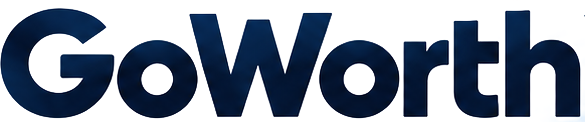
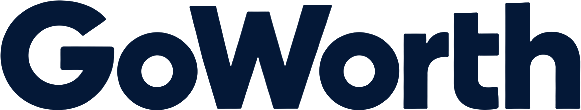
Clean the GoWorth wordmark; locate the device's country on the Map globe
The splash wordmark loses the white haze beside the "h" and its light letter rims.
The globe turns to the country the device is in when location is on, marks it,
and gets a button that centres on it, sharing one lookup with the Explore comb.

diff --git a/goworth/src/components/goworth/country-globe.tsx b/goworth/src/components/goworth/country-globe.tsx
@@ -15,6 +15,7 @@ import { usePalette, useStyles } from "@/state/theme-context";
 import { Icon } from "@/components/goworth/ui";
 import { GlobeSurface } from "@/components/goworth/globe-surface";
 import { projectPoint as project } from "@/components/goworth/globe-math";
+import { deviceCountry } from "@/utils/device-location";
 
 const HEIGHT = 390;
 const BUBBLE = 42;
@@ -42,13 +43,14 @@ function revealFor(zoom: number, minZoom: number) {
 
 const HIDDEN = { opacity: 0, transform: [{ translateX: 0 }, { translateY: 0 }, { scale: 0 }] };
 
-const GlobeBubble = memo(function GlobeBubble({ country, latitude, longitude, index, minZoom, lam, phi, zoom, pressed, radius, cx, cy, dimmed, emphasized, language, onSelect }: {
+const GlobeBubble = memo(function GlobeBubble({ country, latitude, longitude, index, minZoom, lam, phi, zoom, pressed, radius, cx, cy, dimmed, emphasized, here, language, onSelect }: {
   country: Country; latitude: number; longitude: number; index: number; minZoom: number;
   lam: SharedValue<number>; phi: SharedValue<number>; zoom: SharedValue<number>; pressed: SharedValue<number>;
-  radius: number; cx: number; cy: number; dimmed: boolean; emphasized: boolean;
+  radius: number; cx: number; cy: number; dimmed: boolean; emphasized: boolean; here: boolean;
   language: ReturnType<typeof useAppLanguage>; onSelect: (code: string) => void;
 }) {
   const styles = useStyles(stylesSheet);
+  const p = usePalette();
   const style = useAnimatedStyle(() => {
     const view = project(longitude, latitude, lam.value, phi.value, radius * zoom.value);
     const reveal = revealFor(zoom.value, minZoom);
@@ -61,19 +63,20 @@ const GlobeBubble = memo(function GlobeBubble({ country, latitude, longitude, in
     };
   });
   const labelStyle = useAnimatedStyle(() => ({
-    opacity: emphasized ? 1 : dimmed ? 0 : interpolate(zoom.value, [minZoom + 1.3, minZoom + 1.9], [0, 1], Extrapolation.CLAMP),
+    opacity: emphasized || here ? 1 : dimmed ? 0 : interpolate(zoom.value, [minZoom + 1.3, minZoom + 1.9], [0, 1], Extrapolation.CLAMP),
   }));
   const name = translate(country.name, language);
   return <Animated.View
     accessible
     accessibilityRole="button"
-    accessibilityLabel={language === "ro" ? `Explorează ${name}` : `Explore ${name}`}
+    accessibilityLabel={language === "ro" ? `Explorează ${name}${here ? ", ești aici" : ""}` : `Explore ${name}${here ? ", you are here" : ""}`}
     accessibilityActions={[{ name: "activate" }]}
     onAccessibilityAction={() => onSelect(country.code)}
     pointerEvents="none"
-    style={[styles.bubbleSlot, { left: cx - BUBBLE / 2, top: cy - BUBBLE / 2, zIndex: emphasized ? 2 : 1 }, style]}
+    style={[styles.bubbleSlot, { left: cx - BUBBLE / 2, top: cy - BUBBLE / 2, zIndex: here ? 3 : emphasized ? 2 : 1 }, style]}
   >
-    <View style={[styles.bubble, emphasized && styles.bubbleEmphasized]}><Text style={styles.flag}>{countryFlag(country.code)}</Text></View>
+    <View style={[styles.bubble, emphasized && styles.bubbleEmphasized, here && styles.bubbleHere]}><Text style={styles.flag}>{countryFlag(country.code)}</Text></View>
+    {here && <View style={styles.hereBadge}><Icon name="pin" size={9} color={p.white} /></View>}
     <Animated.View style={[styles.label, labelStyle]}><Text numberOfLines={1} style={styles.labelText}>{name}</Text></Animated.View>
   </Animated.View>;
 });
@@ -95,6 +98,7 @@ export const CountryGlobe = memo(function CountryGlobe({ countries, highlighted,
   useEffect(() => { selectRef.current = onSelect; }, [onSelect]);
   const select = useCallback((code: string) => selectRef.current(code), []);
   const [width, setWidth] = useState(0);
+  const [hereCode, setHereCode] = useState<string | null>(null);
   const anchored = useMemo(() => countries.flatMap((country) => {
     const anchor = countryAnchor(country);
     return anchor ? [{ country, ...anchor }] : [];
@@ -105,8 +109,9 @@ export const CountryGlobe = memo(function CountryGlobe({ countries, highlighted,
   const highlightSet = useMemo(() => highlighted ? new Set(highlighted) : null, [highlighted]);
   const minZooms = useMemo(() => {
     const ranks = new Map([...anchored].sort((a, b) => b.country.cityCount - a.country.cityCount).map((item, rank) => [item.country.code, rank]));
-    return codes.map((code) => highlightSet?.has(code) ? 1 : (ranks.get(code) ?? 0) < 45 ? 1 : (ranks.get(code) ?? 0) < 110 ? 1.9 : 3);
-  }, [anchored, codes, highlightSet]);
+    // The device's country always shows, even when it is one of the small ones revealed only up close.
+    return codes.map((code) => highlightSet?.has(code) || code === hereCode ? 1 : (ranks.get(code) ?? 0) < 45 ? 1 : (ranks.get(code) ?? 0) < 110 ? 1.9 : 3);
+  }, [anchored, codes, highlightSet, hereCode]);
   const dimmedFlags = useMemo(() => codes.map((code) => !!highlightSet && !highlightSet.has(code)), [codes, highlightSet]);
   const dotCoordinates = useMemo(() => dots.flatMap((dot) => [dot.longitude, dot.latitude]), [dots]);
   const cx = width / 2, cy = HEIGHT / 2;
@@ -139,15 +144,38 @@ export const CountryGlobe = memo(function CountryGlobe({ countries, highlighted,
     return () => cancelAnimation(markerPulse);
   }, [focused, marker, markerPulse]);
 
-  useEffect(() => {
-    if (!focus) return;
+  const flyTo = useCallback((target: Omit<GlobeFocus, "key">) => {
     cancelAnimation(lam);
     const current = lam.value;
-    const delta = ((((focus.longitude - current) % 360) + 540) % 360) - 180;
+    const delta = ((((target.longitude - current) % 360) + 540) % 360) - 180;
     lam.set(withTiming(current + delta, { duration: 900, easing: Easing.inOut(Easing.cubic) }));
-    phi.set(withTiming(Math.max(-70, Math.min(70, focus.latitude)), { duration: 900, easing: Easing.inOut(Easing.cubic) }));
-    zoom.set(withTiming(focus.zoom ?? 2.2, { duration: 900, easing: Easing.inOut(Easing.cubic) }));
-  }, [focus, lam, phi, zoom]);
+    phi.set(withTiming(Math.max(-70, Math.min(70, target.latitude)), { duration: 900, easing: Easing.inOut(Easing.cubic) }));
+    zoom.set(withTiming(target.zoom ?? 2.2, { duration: 900, easing: Easing.inOut(Easing.cubic) }));
+  }, [lam, phi, zoom]);
+  useEffect(() => {
+    if (focus) flyTo(focus);
+  }, [focus, flyTo]);
+
+  // Only a permission given earlier is used here; the location button is what asks for it.
+  // The globe turns to the device's country unless the screen opened on a place of its own.
+  const openedOnFocus = useRef(!!focus);
+  useEffect(() => {
+    let active = true;
+    deviceCountry(false).then((here) => {
+      if (!active || !here) return;
+      setHereCode(here.countryCode);
+      if (!openedOnFocus.current) flyTo({ latitude: here.latitude, longitude: here.longitude, zoom: 2.2 });
+    }).catch(() => {});
+    return () => { active = false; };
+  }, [flyTo]);
+  const locate = () => {
+    // Asks for location (once) and refreshes it, so a trip abroad shows the new country.
+    deviceCountry(true).then((here) => {
+      if (!here) return;
+      setHereCode(here.countryCode);
+      flyTo({ latitude: here.latitude, longitude: here.longitude, zoom: 2.2 });
+    }).catch(() => {});
+  };
 
   const markerStyle = useAnimatedStyle(() => {
     if (!marker) return { opacity: 0 };
@@ -255,6 +283,7 @@ export const CountryGlobe = memo(function CountryGlobe({ countries, highlighted,
             radius={radius} cx={cx} cy={cy}
             dimmed={dimmedFlags[index]}
             emphasized={!!highlightSet && highlightSet.has(item.country.code) && highlightSet.size <= 12}
+            here={item.country.code === hereCode}
             language={language}
             onSelect={select}
           />)}
@@ -266,6 +295,7 @@ export const CountryGlobe = memo(function CountryGlobe({ countries, highlighted,
       </View>
     </GestureDetector>
     <View style={styles.controls}>
+      <Pressable accessibilityRole="button" accessibilityLabel={language === "ro" ? "Arată țara în care mă aflu" : "Show the country I'm in"} onPress={locate} style={({ pressed: down }) => [styles.control, down && styles.controlPressed]}><Icon name="target" size={18} color={p.blue} /></Pressable>
       <Pressable accessibilityRole="button" accessibilityLabel={language === "ro" ? "Mărește" : "Zoom in"} onPress={() => zoomBy(1.6)} style={({ pressed: down }) => [styles.control, down && styles.controlPressed]}><Icon name="plus" size={20} color={p.blue} /></Pressable>
       <Pressable accessibilityRole="button" accessibilityLabel={language === "ro" ? "Micșorează" : "Zoom out"} onPress={() => zoomBy(1 / 1.6)} style={({ pressed: down }) => [styles.control, down && styles.controlPressed]}><View style={styles.minus} /></Pressable>
       <Pressable accessibilityRole="button" accessibilityLabel={language === "ro" ? "Vezi tot globul" : "Show the whole globe"} onPress={reset} style={({ pressed: down }) => [styles.control, down && styles.controlPressed]}><Icon name="globe" size={19} color={p.blue} /></Pressable>
@@ -282,6 +312,11 @@ const stylesSheet = themedStyles((p) => ({
     shadowColor: "#1E3A8A", shadowOpacity: 0.3, shadowRadius: 0, shadowOffset: { width: 0, height: 3 }, elevation: 4,
   },
   bubbleEmphasized: { borderColor: p.orange, borderWidth: 3 },
+  bubbleHere: { borderColor: p.blue, borderWidth: 3 },
+  hereBadge: {
+    position: "absolute", top: -3, right: -3, width: 18, height: 18, borderRadius: 9, backgroundColor: p.blue,
+    borderWidth: 2, borderColor: p.white, alignItems: "center", justifyContent: "center",
+  },
   flag: { fontSize: 22, lineHeight: 27 },
   label: { position: "absolute", top: BUBBLE + 3, width: 110, alignItems: "center" },
   labelText: { color: p.ink, fontSize: 11, fontWeight: "800", paddingHorizontal: 7, paddingVertical: 2, borderRadius: 8, overflow: "hidden", backgroundColor: p.white, borderWidth: 1, borderColor: p.line },

diff --git a/goworth/src/components/goworth/country-honeycomb.tsx b/goworth/src/components/goworth/country-honeycomb.tsx
@@ -6,13 +6,13 @@ import Animated, {
   type SharedValue,
 } from "react-native-reanimated";
 import { scheduleOnRN } from "react-native-worklets";
-import * as Location from "expo-location";
-import { countryFlag, nearestCity, type Country } from "@/data/geography";
+import { countryFlag, type Country } from "@/data/geography";
 import { translate } from "@/data/i18n";
 import { useAppLanguage } from "@/data/formatting";
 import { themedStyles, type Palette } from "@/constants/design";
 import { usePalette, useStyles } from "@/state/theme-context";
 import { Icon } from "@/components/goworth/ui";
+import { deviceCountry } from "@/utils/device-location";
 
 const BUBBLE = 76;
 const SPACING = BUBBLE + 10;
@@ -26,15 +26,6 @@ const continentTint = (p: Palette): Record<string, { bg: string; ring: string }>
   OC: { bg: p.purpleSoft, ring: "#C5BDF2" },
   AN: { bg: p.soft, ring: p.line },
 });
-
-/** The country the device is in, from the nearest known city; asks for permission only when `ask` is set. */
-async function locateCountry(ask: boolean): Promise<string | null> {
-  const permission = ask ? await Location.requestForegroundPermissionsAsync() : await Location.getForegroundPermissionsAsync();
-  if (permission.status !== "granted") return null;
-  const position = await Location.getLastKnownPositionAsync()
-    ?? await Location.getCurrentPositionAsync({ accuracy: Location.Accuracy.Balanced });
-  return nearestCity(position.coords.latitude, position.coords.longitude)?.countryCode ?? null;
-}
 
 /** Axial hex coordinates walked outward ring by ring, so the first items sit in the middle. */
 function spiral(count: number) {
@@ -167,7 +158,7 @@ export function CountryHoneycomb({
   // Only a permission given earlier is used here; the location button is what asks for it.
   useEffect(() => {
     let active = true;
-    locateCountry(false).then((code) => { if (active && code) setHereCode(code); }).catch(() => {});
+    deviceCountry(false).then((here) => { if (active && here) setHereCode(here.countryCode); }).catch(() => {});
     return () => { active = false; };
   }, []);
 
@@ -250,10 +241,10 @@ export function CountryHoneycomb({
   const locate = () => {
     glide(homeX, homeY);
     // Asks for location (once) and refreshes it, so a trip abroad shows the new country.
-    locateCountry(true).then((code) => {
-      if (!code) return;
-      setHereCode(code);
-      const index = codes.indexOf(code);
+    deviceCountry(true).then((here) => {
+      if (!here) return;
+      setHereCode(here.countryCode);
+      const index = codes.indexOf(here.countryCode);
       if (index >= 0) glide(-cells[index].x, -cells[index].y);
     }).catch(() => {});
   };

diff --git a/goworth/src/utils/device-location.ts b/goworth/src/utils/device-location.ts
@@ -1,5 +1,6 @@
 import * as Location from "expo-location";
 import type { Coordinates } from "../data/discovery";
+import { nearestCity } from "../data/geography";
 
 let request: { at: number; position: Promise<Coordinates | null> } | null = null;
 
@@ -18,4 +19,15 @@ export function deviceLocation(): Promise<Coordinates | null> {
   // A refusal or failure is asked again next time rather than remembered.
   void position.then((value) => { if (!value && request?.position === position) request = null; });
   return position;
+}
+
+/** Where the device is and the country it is in, from the nearest known city; asks for permission only when `ask` is set. */
+export async function deviceCountry(ask: boolean): Promise<(Coordinates & { countryCode: string }) | null> {
+  const permission = ask ? await Location.requestForegroundPermissionsAsync() : await Location.getForegroundPermissionsAsync();
+  if (permission.status !== "granted") return null;
+  const position = await Location.getLastKnownPositionAsync()
+    ?? await Location.getCurrentPositionAsync({ accuracy: Location.Accuracy.Balanced });
+  const { latitude, longitude } = position.coords;
+  const countryCode = nearestCity(latitude, longitude)?.countryCode;
+  return countryCode ? { latitude, longitude, countryCode } : null;
 }
